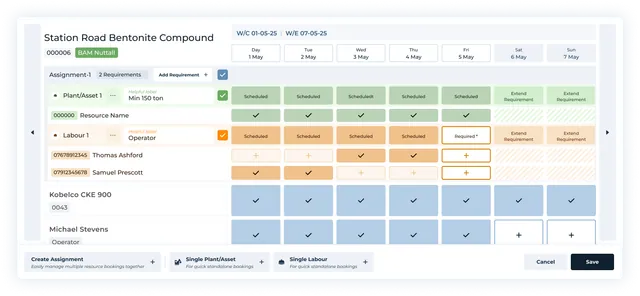
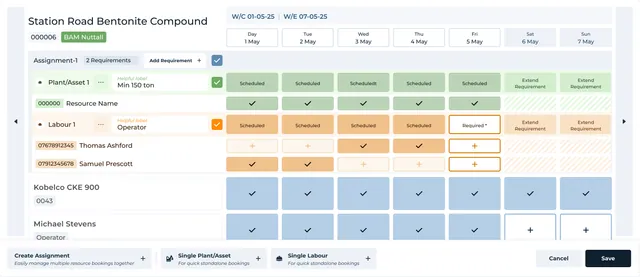
Frame every case-study image as the Figma design does (v0.2.2)
Follows the hero collage (v0.2.1): every remaining case-study image now
uses the design's own source and framing, read from Figma's design
context, and the layout no longer re-crops images.

New sources (assets/source/design/case-study/, clean in-app captures):
Asset Scheduler, Scale, Dependency (x2), and the Invoicing panel, which
is a composite in Figma so it's a 2x export with its title layer laid
back on top. Change and panel images reuse the hero's Timesheets and
Invoicing sources (byte-identical in Figma).

Re-framed existing design images: research spreadsheet and screen,
legacy scheduler, early mock-up.

Layout (no more forced crops):
- Triad thumbnails, research photos, convergence pair, timesheet/invoice
  panels and design-system boards render at their natural ratio, with
  column widths in the design's proportions (heights line up).
- Removed fixed square / 4:3 / 176px / 263px / 340px boxes.
- "Switch / Today" overlay positioned as in the design.

Image script: per-layer border width, `overlay` for composites; the
July screenshots are no longer used (six slots and their files removed).
Docs: how to refresh images from Figma.

Root files touched: package.json/package-lock.json (version only).

Verified: typecheck, build; at 390/768/1024/1440/1728 no image is
cropped by the layout (rendered ratio within 1% of the image), paired
images align within 1-3px, no broken images, no horizontal overflow.

Version: v0.2.2

diff --git a/src/styles/main.css b/src/styles/main.css
@@ -540,13 +540,12 @@ main:focus {
   display: grid;
   gap: 24px;
 }
+/* Two images side by side at their natural ratios (widths from the design: 426 / 425). */
 .pair {
   display: grid;
-  grid-template-columns: repeat(2, minmax(0, 1fr));
+  grid-template-columns: minmax(0, 426fr) minmax(0, 425fr);
+  align-items: start;
   gap: clamp(12px, 2vw, 24px);
-}
-.square .figure__trigger {
-  aspect-ratio: 1;
 }
 
 /* ==========================================================================
@@ -880,18 +879,19 @@ a.nav__link:hover {
   align-content: start;
   gap: 10px;
 }
+/* Images keep their design framing; paired columns use the design widths so heights match. */
 .triad__media {
   display: grid;
-  gap: 10px;
-  grid-template-rows: 176px;
+  align-items: start;
+  gap: 8px;
   margin-bottom: 8px;
 }
-.triad__media .figure {
-  height: 100%;
-  min-height: 0;
+.triad__media--dependency {
+  grid-template-columns: minmax(0, 302fr) minmax(0, 165fr);
 }
-.triad__media--2 {
-  grid-template-columns: minmax(0, 1.35fr) minmax(0, 1fr);
+.triad__media--change {
+  grid-template-columns: minmax(0, 267fr) minmax(0, 199fr);
+  gap: 9px;
 }
 
 /* ==========================================================================
@@ -915,13 +915,12 @@ a.nav__link:hover {
   border-radius: 16px;
   background: var(--surface);
 }
+/* Widths from the design (329 / 248 / 375) so the three photos share a height. */
 .trio {
   display: grid;
-  grid-template-columns: repeat(3, minmax(0, 1fr));
-  gap: clamp(8px, 1.4vw, 14px);
-}
-.trio__item .figure__trigger {
-  aspect-ratio: 4 / 3;
+  grid-template-columns: minmax(0, 329fr) minmax(0, 248fr) minmax(0, 375fr);
+  align-items: end;
+  gap: clamp(8px, 1.6vw, 27px);
 }
 
 /* ==========================================================================
@@ -992,17 +991,17 @@ a.nav__link:hover {
 }
 .outcome__media {
   position: relative;
-  padding-bottom: 28px;
 }
+/* Position and size as in the design: 336×102 at (611, 240) on the 1106×613 screenshot. */
 .outcome__overlay {
   position: absolute;
-  right: clamp(12px, 3vw, 32px);
-  bottom: 0;
-  width: min(45%, 320px);
+  left: 55.24%;
+  top: 39.15%;
+  width: 30.38%;
   z-index: 1;
 }
 .outcome__overlay .figure__trigger {
-  box-shadow: 0 16px 36px -16px rgb(23 47 68 / 0.5);
+  box-shadow: 0 0 10px #dde6ee;
 }
 .outcome__text {
   display: grid;
@@ -1065,7 +1064,7 @@ a.nav__link:hover {
   grid-template-rows: auto auto auto 1fr;
   justify-items: center;
   gap: 20px;
-  padding: clamp(24px, 3vw, 40px) clamp(20px, 3vw, 40px) 0;
+  padding: clamp(24px, 3vw, 40px) clamp(20px, 3vw, 40px);
   border-radius: 20px;
   background: var(--surface-2);
   overflow: hidden;
@@ -1078,12 +1077,7 @@ a.nav__link:hover {
 .duo__image {
   align-self: end;
   width: 100%;
-  height: clamp(240px, 26vw, 340px);
   margin-top: 12px;
-}
-.duo__image .figure__trigger {
-  border-bottom: 0;
-  border-radius: 10px 10px 0 0;
 }
 
 /* ==========================================================================
@@ -1105,14 +1099,27 @@ a.nav__link:hover {
 }
 .ds-gallery__item .figure {
   display: grid;
-  grid-template-rows: 263px auto;
   justify-items: start;
 }
+/* Scrolling strip on smaller screens: a fixed height, each board at its natural width. */
+.ds-gallery {
+  grid-auto-columns: max-content;
+}
+.ds-gallery__item .figure__trigger img {
+  width: auto;
+  height: 220px;
+}
+/* Wide screens: columns in the design's widths (183/249/493/318/256), so every board shares a height. */
 @media (min-width: 1100px) {
   .ds-gallery {
     grid-auto-flow: row;
-    grid-template-columns: 179fr 245fr 489fr 314fr 252fr;
+    grid-template-columns: 183fr 249fr 493fr 318fr 256fr;
+    align-items: start;
     overflow: visible;
+  }
+  .ds-gallery__item .figure__trigger img {
+    width: 100%;
+    height: auto;
   }
 }
 .principles {

diff --git a/src/content.ts b/src/content.ts
@@ -61,7 +61,7 @@ export const handoffs = {
   intro:
     'Each job moved through multiple teams, documents and decisions. Changes to contracts, resources and completed work had consequences elsewhere in the system, making continuity between workflows as important as the individual interfaces.',
   scheduler: {
-    slug: 'asset-scheduler',
+    slug: 'cs-asset-scheduler',
     alt: 'UpRate plant & labour scheduler showing resource rows and assignment blocks across a weekly timeline',
   } as Pic,
   annotations: [
@@ -86,15 +86,15 @@ export const handoffs = {
       label: 'SCALE',
       title: 'Weeks of work in one view',
       text: 'Schedulers managed concurrent bookings across labour, cranes, transport and equipment. Individual resources could have multiple assignments in one day, each with different durations and states.',
-      images: [{ slug: 'labour-scheduler-overview', alt: 'Scheduler scale view' }],
+      images: [{ slug: 'cs-scale', alt: 'Scheduler scale view' }],
     },
     {
       label: 'DEPENDENCY',
       title: 'Every assignment relied on connected information',
       text: 'A scheduled assignment brought together the customer, job requirements, time, resources, hire agreement, charges and supporting documents. The Scheduler could not operate as an isolated calendar.',
       images: [
-        { slug: 'labour-scheduler-bulk-assign', alt: 'Assignment dependency view' },
-        { slug: 'labour-scheduler-create-assignment', alt: 'Resource panel' },
+        { slug: 'cs-dependency-a', alt: 'Assignment dependency view' },
+        { slug: 'cs-dependency-b', alt: 'Resource panel' },
       ],
     },
     {
@@ -102,8 +102,8 @@ export const handoffs = {
       title: 'One update could affect the wider workflow',
       text: 'Moving a booking, replacing a resource or cancelling an assignment could affect timesheets, approvals, charges and final invoicing. Changes needed to remain visible and understandable across teams.',
       images: [
-        { slug: 'timesheets', alt: 'Assignment change view' },
-        { slug: 'invoicing', alt: 'Resource assignment panel' },
+        { slug: 'cs-change-timesheets', alt: 'Assignment change view' },
+        { slug: 'cs-change-invoicing', alt: 'Resource assignment panel' },
       ],
     },
   ] as { label: string; title: string; text: string; images: Pic[] }[],
@@ -189,14 +189,14 @@ export const connectedNext = {
       accent: 'purple',
       title: 'Scheduled work became evidence of completed work.',
       text: 'Assigned labour submitted timesheets against the work they had completed. Hiring Managers could track submissions and Accounts could work from the same underlying record.',
-      image: { slug: 'timesheets', alt: 'Timesheet submission interface' },
+      image: { slug: 'cs-panel-timesheets', alt: 'Timesheet submission interface' },
     },
     {
       label: 'Invoice',
       accent: 'orange',
       title: 'Accounts could see what was ready and what was blocking invoicing.',
       text: 'Timesheet and contract information carried forward into the invoicing workflow, giving Accounts the evidence and status needed to move each job forward.',
-      image: { slug: 'invoicing', alt: 'Invoice management interface' },
+      image: { slug: 'cs-panel-invoicing', alt: 'Invoice management interface' },
     },
   ] as { label: string; accent: Accent; title: string; text: string; image: Pic }[],
 };

diff --git a/src/sections/Handoffs.tsx b/src/sections/Handoffs.tsx
@@ -57,9 +57,9 @@ export function Handoffs() {
         <div className="triad">
           {handoffs.columns.map((c) => (
             <article key={c.label} className="triad__item">
-              <div className={`triad__media triad__media--${c.images.length}`}>
+              <div className={`triad__media triad__media--${c.label.toLowerCase()}`}>
                 {c.images.map((pic) => (
-                  <Figure key={pic.alt} pic={pic} sizes="(min-width: 900px) 30vw, 90vw" fit="cover" position="left top" />
+                  <Figure key={pic.alt} pic={pic} sizes="(min-width: 900px) 30vw, 90vw" />
                 ))}
               </div>
               <p className="eyebrow eyebrow--green">{c.label}</p>

diff --git a/src/sections/DesignSystem.tsx b/src/sections/DesignSystem.tsx
@@ -17,7 +17,7 @@ export function DesignSystem() {
         <ul className="ds-gallery" aria-label="Design system foundations">
           {d.gallery.map((g) => (
             <li key={g.slug} className={`ds-gallery__item ds-gallery__item--${g.slug}`}>
-              <Figure pic={g} sizes="(min-width: 1024px) 480px, 70vw" fit="cover" position="left top" caption={<span className="pill">{g.label}</span>} />
+              <Figure pic={g} sizes="(min-width: 1100px) 500px, 440px" caption={<span className="pill">{g.label}</span>} />
             </li>
           ))}
         </ul>

diff --git a/src/sections/Convergence.tsx b/src/sections/Convergence.tsx
@@ -15,7 +15,7 @@ export function Convergence() {
           <Figure pic={convergence.main} sizes="(min-width: 1024px) 720px, 92vw" />
           <div className="pair">
             {convergence.details.map((pic) => (
-              <Figure key={pic.slug} pic={pic} sizes="(min-width: 1024px) 350px, 45vw" fit="cover" position="center top" className="square" />
+              <Figure key={pic.slug} pic={pic} sizes="(min-width: 1024px) 350px, 45vw" />
             ))}
           </div>
         </div>

diff --git a/src/sections/WorkExisted.tsx b/src/sections/WorkExisted.tsx
@@ -22,7 +22,7 @@ export function WorkExisted() {
           <div className="panel">
             <div className="trio">
               {w.research.map((pic) => (
-                <Figure key={pic.slug} pic={pic} sizes="(min-width: 1024px) 220px, 30vw" fit="cover" className="trio__item" />
+                <Figure key={pic.slug} pic={pic} sizes="(min-width: 1024px) 380px, 30vw" />
               ))}
             </div>
             <Figure pic={w.legacy} sizes="(min-width: 1024px) 680px, 90vw" />

diff --git a/src/sections/ConnectedNext.tsx b/src/sections/ConnectedNext.tsx
@@ -20,7 +20,7 @@ export function ConnectedNext() {
               </p>
               <h3 className="h3">{p.title}</h3>
               <p className="lead">{p.text}</p>
-              <Figure pic={p.image} sizes="(min-width: 900px) 560px, 88vw" fit="cover" position="left top" className="duo__image" />
+              <Figure pic={p.image} sizes="(min-width: 900px) 620px, 88vw" className="duo__image" />
             </article>
           ))}
         </div>

diff --git a/src/version.ts b/src/version.ts
@@ -4,4 +4,4 @@
 // changes to it on pull, so a version stored there never updates in Figma. Source files do sync.
 //
 // Only claude/* branches bump this, once per branch (see .claude/CLAUDE.md). Keep package.json in step.
-export const SITE_VERSION = 'v0.2.1';
+export const SITE_VERSION = 'v0.2.2';

diff --git a/.claude/CLAUDE.md b/.claude/CLAUDE.md
@@ -116,6 +116,21 @@ Figma's dev server didn't apply it (`__APP_VERSION__ is not defined`).
 
 ## Images
 
-`npm run images` rebuilds `public/img` from `assets/source` using `sharp` (optional dependency). The original
-screenshots are git-ignored because their browser chrome shows a third party's email address, so this only works
-on Dan's Mac. Never commit `assets/source/screenshots`.
+All case-study imagery comes from Dan's Figma file (`fcr0BYYBYazdQNN0eZAAKI`, frame **Case study page** `136:15002`),
+framed exactly as the design frames it. The July captures in ~/Downloads/UpRate Screenshots are no longer used.
+
+To change or add an image:
+1. Use the Figma connector: `get_design_context` on the section frame gives each image layer's box size, border and
+   fill position/size (%). Download the full-resolution source it links (URLs expire) into
+   `assets/source/design/{hero,case-study}/`. Check sources for browser chrome or private data before committing.
+2. Add/update the slot in `scripts/build-images.mjs` (`figma: { box, border, img | cover }`; `overlay` for composites).
+3. `npm run images -- <slug> [<slug>…]` rebuilds just those slots (sharp is an optional dependency). Delete any
+   `public/img` files the change orphans.
+4. Layout must not re-crop: images render at their natural ratio (`Figure` without `fit="cover"`), with column
+   widths in the design's proportions. Only the hero collage uses fixed boxes, which match the design's own boxes.
+
+Composite layers (e.g. the Invoicing panel, several captures plus white masks) are exported from Figma as one image
+with `download_assets` at 2x. Layers outside the 1728px design frame export blank; use their source + framing instead.
+
+`assets/source/screenshots` (git-ignored) holds the old July captures; never commit it, since their browser chrome shows
+a third party's email address.

diff --git a/README.md b/README.md
@@ -20,13 +20,13 @@ Routes live in `src/links.ts`; each page sets its own title, description and can
 
 ```bash
 npm install
-npm run images   # regenerate public/img from assets/source (only needed when images change)
+npm run images   # regenerate public/img from assets/source (`npm run images -- <slug>` for one slot)
 npm run dev      # local dev server on http://localhost:8080 (also F5 in VS Code)
 npm run build    # production build into dist/
 npm run preview  # serve dist/ locally
 ```
 
-Needs **Node 18.18 or newer** (Node 20+ recommended). `sharp` is optional: only `npm run images` uses it, and it needs the original screenshots, which are kept locally.
+Needs **Node 18.18 or newer** (Node 20+ recommended). `sharp` is optional: only `npm run images` uses it.
 
 ## Workflow
 
@@ -74,8 +74,7 @@ Figma Make builds and publishes the site to danhemsley.com from its workspace (t
 | `src/sections/` | One component per page section, in page order |
 | `src/components/` | Header, responsive `Figure`, `Lightbox`, `Flow` chips, icons |
 | `src/styles/main.css` | Design tokens and all styles |
-| `scripts/build-images.mjs` | Image manifest: which source file and crop feeds each slot |
-| `assets/source/screenshots/` | Copies of the original captures (git-ignored; they include browser chrome) |
-| `assets/source/design/` | Artwork exported from the Figma design that isn't in the screenshot folder |
+| `scripts/build-images.mjs` | Image manifest: which Figma source and framing feeds each slot |
+| `assets/source/design/` | Source images from the Figma design (`hero/`, `case-study/` and older exports) |
 
-To swap a screenshot, change its entry in `scripts/build-images.mjs` and run `npm run images`.
+Images match the Figma design's framing exactly. To swap one, see **Images** in `.claude/CLAUDE.md`.
